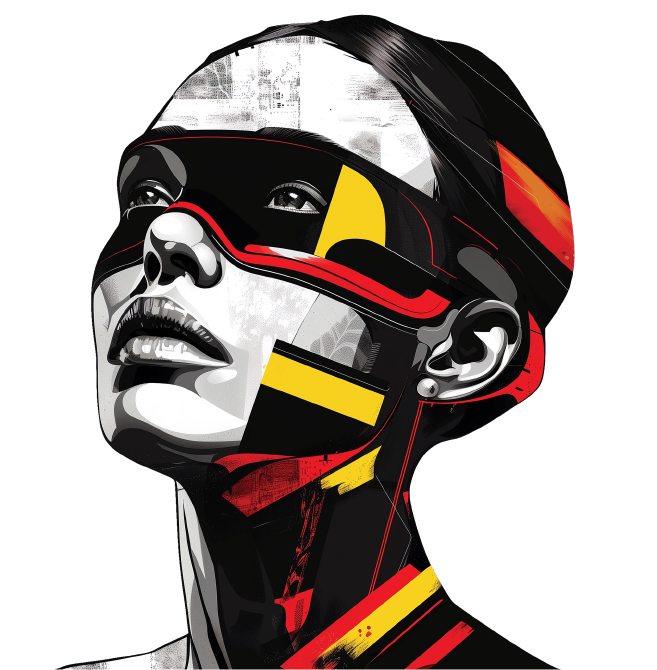
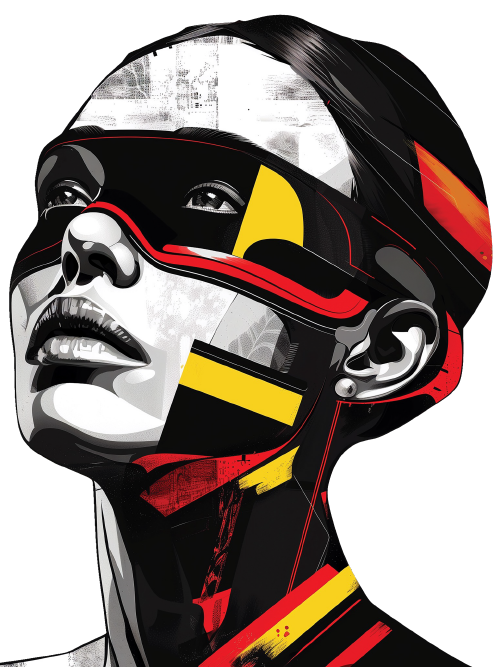
Removes unused graphics

diff --git a/frontend/src/app/components/pages/landing/landing.html b/frontend/src/app/components/pages/landing/landing.html
@@ -63,7 +63,7 @@
         <button (click)="scrollTo('features')" class="btn-outline w-44">Learn More</button>
       </div>
     </div>
-    <div class="hidden lg:flex lg:items-end lg:justify-center">
+    <div class="hidden lg:flex lg:items-end lg:justify-end">
       <img src="images/masked-woman.png" alt="Face PKI" class="max-h-[80vh] object-contain" />
     </div>
   </div>
